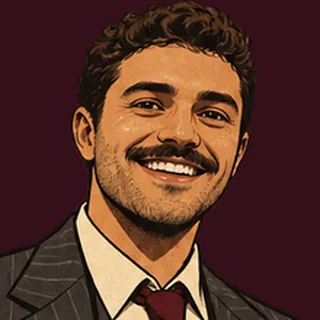
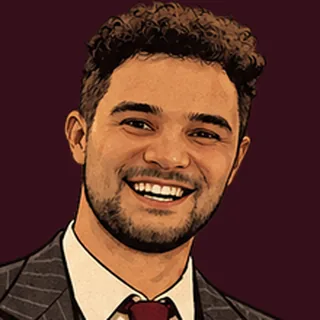
Holden redrawn from his new photo (take G)
Claude-Session: https://claude.ai/code/session_011n5gPsd4ZZgTYeVzG34PYX

diff --git a/src/lib/figure.ts b/src/lib/figure.ts
@@ -9,5 +9,5 @@ export const avatarSrc = (photoUrl?: string | null, figure?: string | null) => p
  * Where each drawing's face sits across its width (0 to 1), for lining the face up with the gap in the
  * jail bars (public/art/jailbars.webp). Measured from the art: the middle of the head in the top 15%.
  */
-export const FACE_X: Record<string, number> = {"bodyguard": 0.455, "brayden": 0.294, "brendan": 0.374, "cameron": 0.412, "brian": 0.386, "brianna": 0.445, "holden": 0.469, "sienna": 0.323, "chrissie": 0.448, "cigarette": 0.322, "curls": 0.442, "daya": 0.334, "dapper": 0.5, "detective": 0.446, "don": 0.445, "emily": 0.387, "flapper": 0.608, "gambler": 0.403, "heiress": 0.453, "heston": 0.441, "josh": 0.415, "killer": 0.43, "lady": 0.45, "madison": 0.471, "miranda": 0.474, "owner": 0.508, "reily": 0.4, "reporter": 0.364, "sam": 0.422, "singer": 0.326, "sleuth": 0.272, "slick": 0.494, "sophia": 0.46, "sweetheart": 0.406, "trumpet": 0.495};
+export const FACE_X: Record<string, number> = {"bodyguard": 0.455, "brayden": 0.294, "brendan": 0.374, "cameron": 0.412, "brian": 0.386, "brianna": 0.445, "holden": 0.602, "sienna": 0.323, "chrissie": 0.448, "cigarette": 0.322, "curls": 0.442, "daya": 0.334, "dapper": 0.5, "detective": 0.446, "don": 0.445, "emily": 0.387, "flapper": 0.608, "gambler": 0.403, "heiress": 0.453, "heston": 0.441, "josh": 0.415, "killer": 0.43, "lady": 0.45, "madison": 0.471, "miranda": 0.474, "owner": 0.508, "reily": 0.4, "reporter": 0.364, "sam": 0.422, "singer": 0.326, "sleuth": 0.272, "slick": 0.494, "sophia": 0.46, "sweetheart": 0.406, "trumpet": 0.495};
 export const faceX = (key: string) => FACE_X[key] ?? 0.45;
